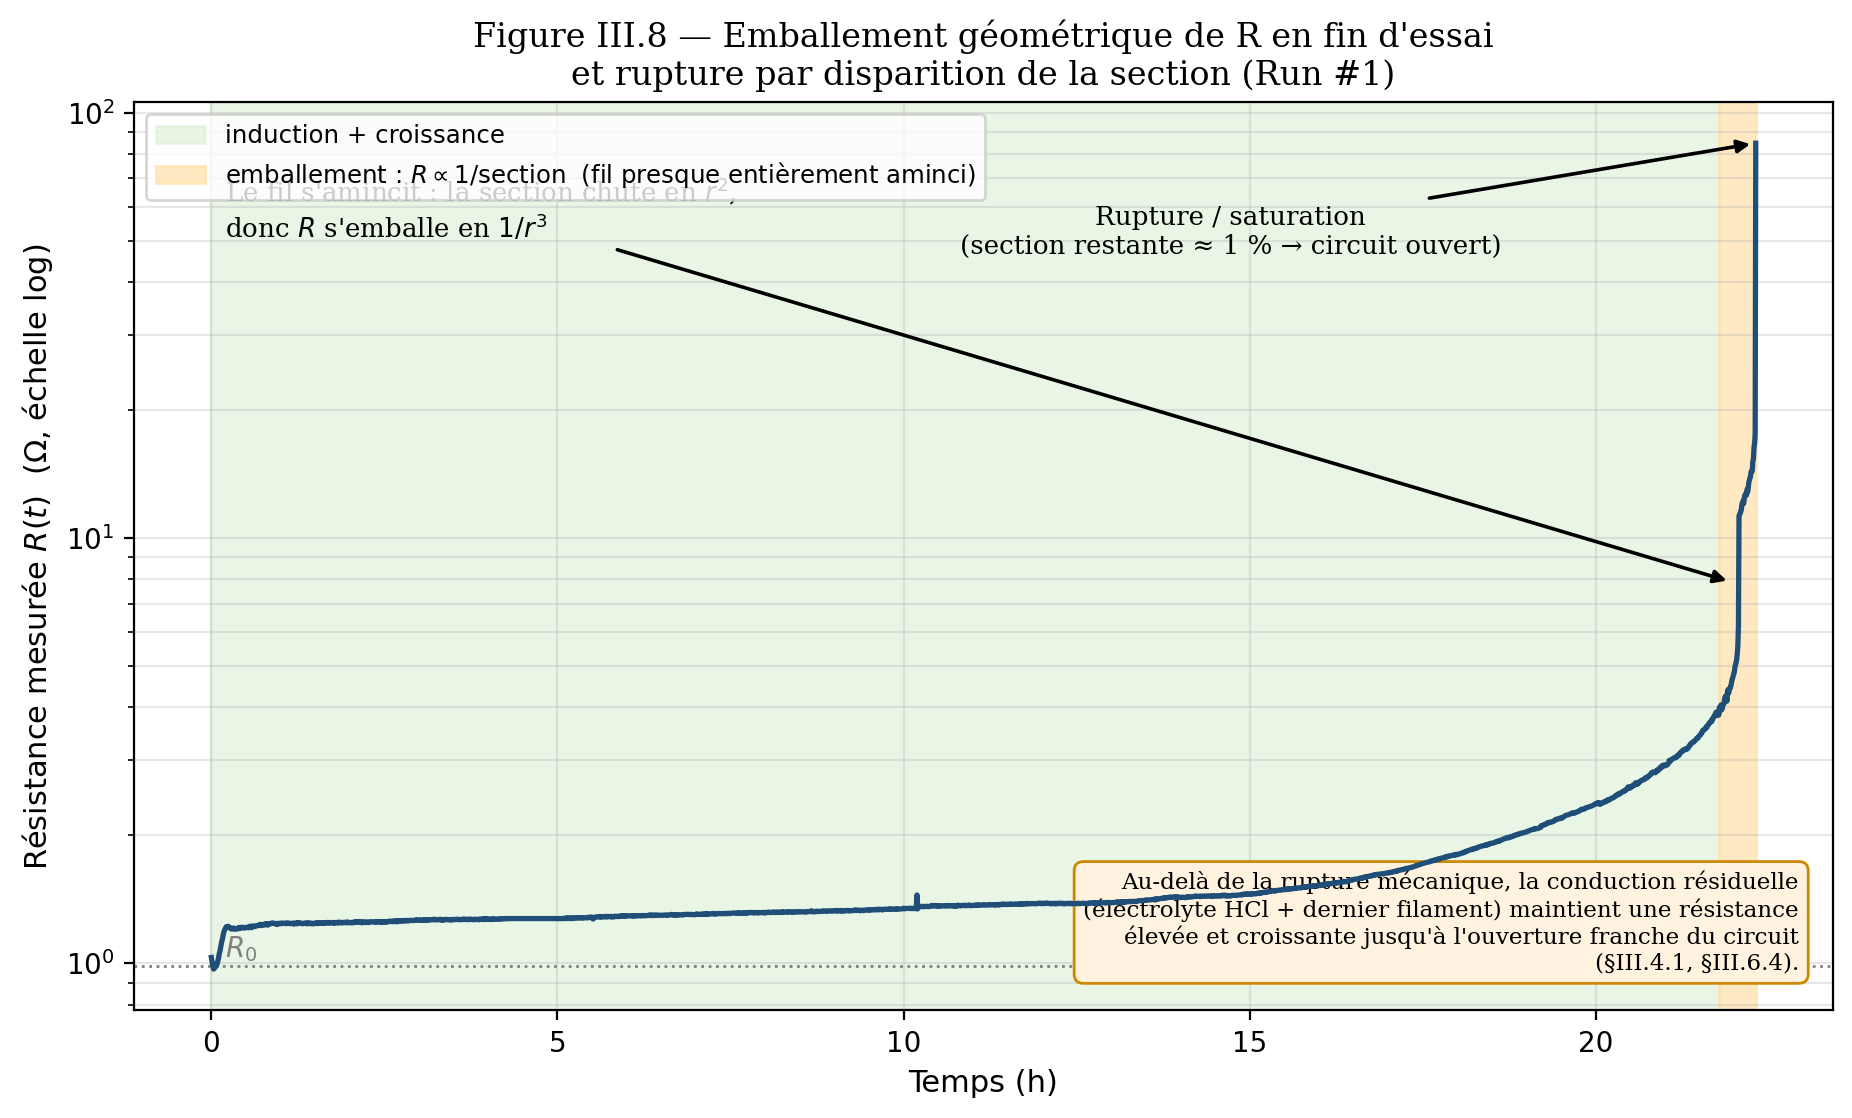
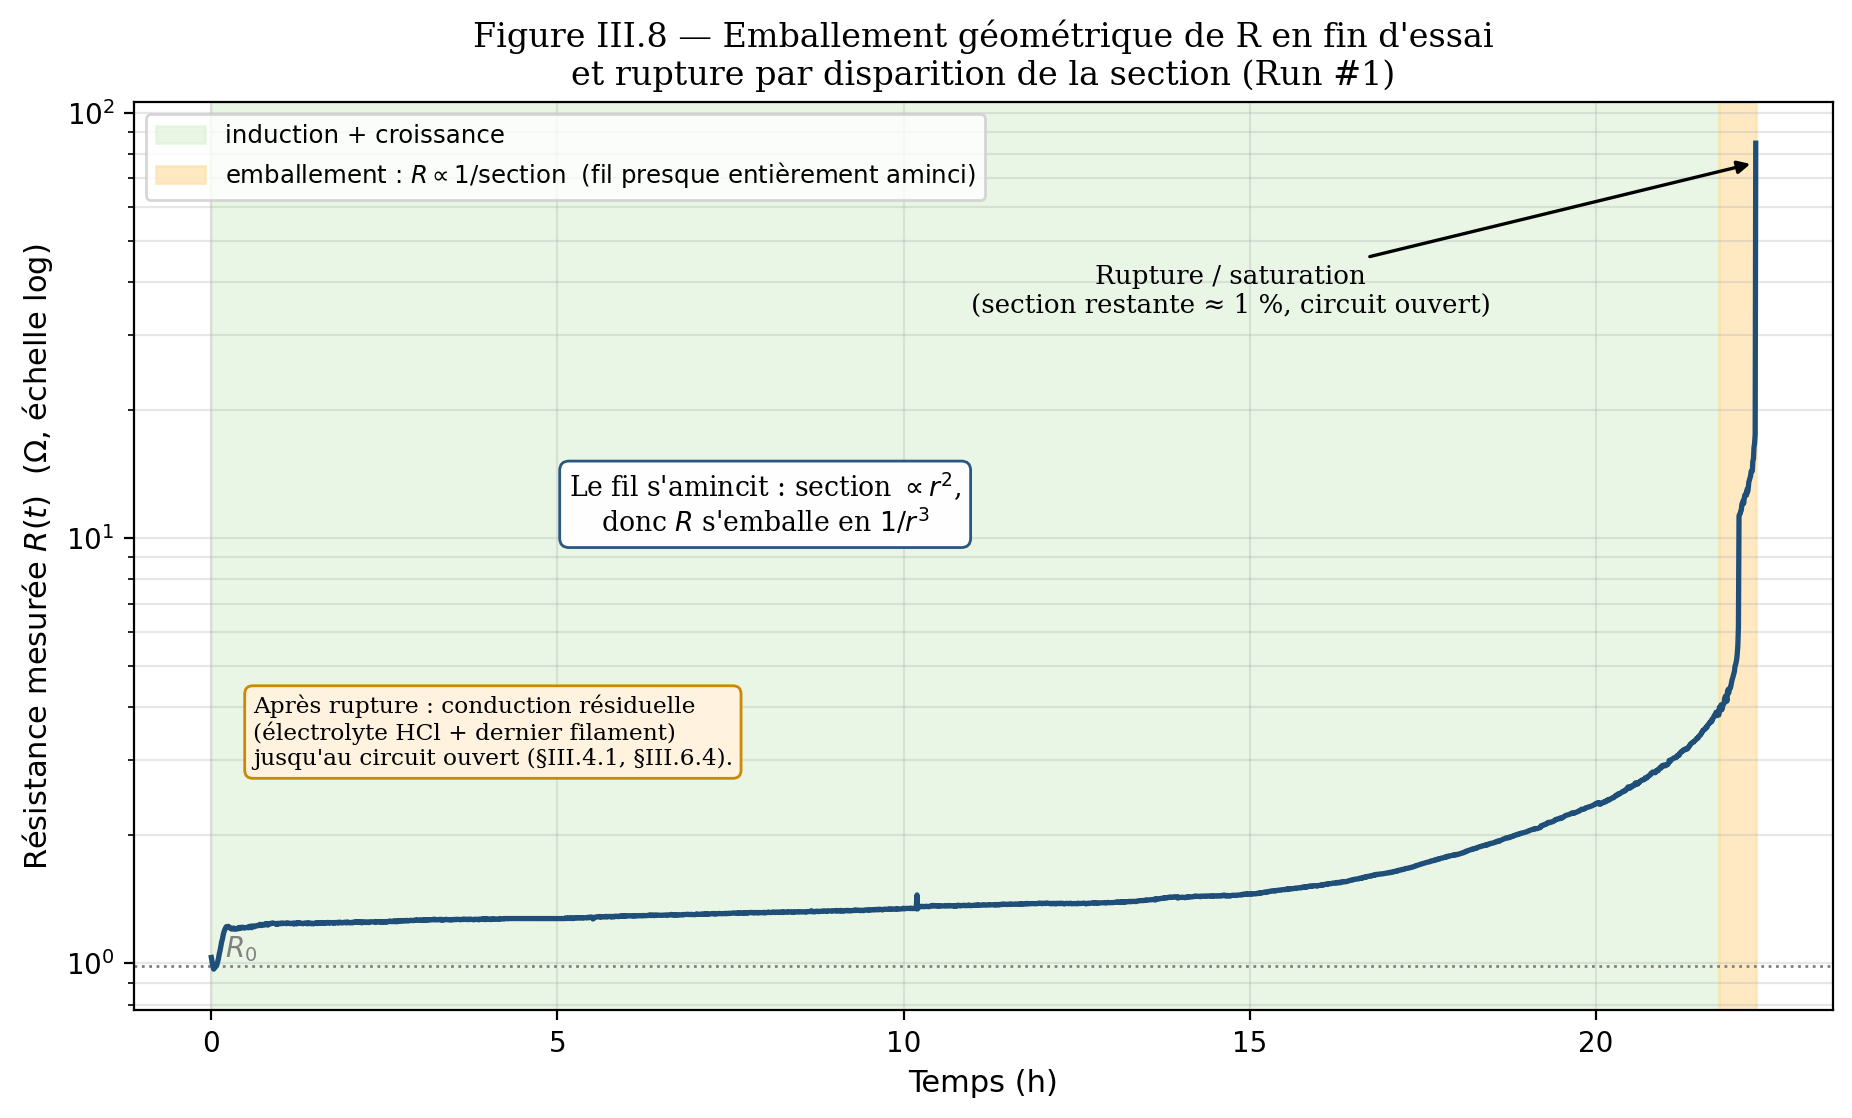
figures: supprimer fleches/textes qui se croisent (rendu pro)
- II.1 architecture : fleche ESP->Supabase bord a bord ; label REST deplace hors de la fleche
- III.5 escalier : suppression des 2 fleches qui traversaient leurs encadres ; labels en zone vide
- III.8 emballement : note mecanisme sortie de sous la legende, 1 seule courte fleche vers le pic,
  note post-rupture en zone basse vide, encadre orange retire de la courbe
- II.2 montage : connexions DOUT/SCK et 1-Wire reroutees orthogonalement hors du becher, labels off-line
- III.15 scorecard : label mediane deplace a cote de la ligne pointillee
Donnees/valeurs inchangees ; numeros de figure (titres graves) inchanges.

diff --git a/memoire/figures/generate_fig_iii4_emballement.py b/memoire/figures/generate_fig_iii4_emballement.py
@@ -55,23 +55,24 @@ ax.axvspan(t_emb, t_rupt, color="#ffe0a8", alpha=0.7,
 ax.axhline(R0, color="gray", ls=":", lw=1)
 ax.text(0.2, R0 * 1.05, r"$R_0$", color="gray", fontsize=10)
 
-ax.annotate(f"Rupture / saturation\n(section restante ≈ {sect_fin:.0f} % → circuit ouvert)",
-            xy=(t_rupt, mx), xytext=(t_rupt - 0.34 * t_rupt, mx * 0.55),
-            fontsize=9.4, family="serif", ha="center",
-            arrowprops=dict(arrowstyle="-|>", color="black", lw=1.3))
-ax.annotate("Le fil s'amincit : la section chute en $r^2$,\ndonc $R$ s'emballe en $1/r^{3}$",
-            xy=(0.65 * t_emb + 0.35 * t_rupt, 8 * R0),
-            xytext=(0.2, mx * 0.6), fontsize=9.4, family="serif", ha="left",
-            arrowprops=dict(arrowstyle="-|>", color="black", lw=1.3))
+# Mécanisme géométrique : texte seul, posé dans la zone centrale vide (aucune flèche)
+ax.text(8.0, 12.0, "Le fil s'amincit : section $\\propto r^{2}$,\ndonc $R$ s'emballe en $1/r^{3}$",
+        ha="center", va="center", fontsize=9.6, family="serif",
+        bbox=dict(boxstyle="round,pad=0.35", facecolor="white", edgecolor="#1f4e79", lw=1, alpha=0.95))
 
-# Encadré : mécanisme post-rupture (décrit, non extrapolé)
-ax.text(0.98, 0.04,
-        "Au-delà de la rupture mécanique, la conduction résiduelle\n"
-        "(électrolyte HCl + dernier filament) maintient une résistance\n"
-        "élevée et croissante jusqu'à l'ouverture franche du circuit\n"
-        "(§III.4.1, §III.6.4).",
-        transform=ax.transAxes, ha="right", va="bottom", fontsize=8.3, family="serif",
-        bbox=dict(boxstyle="round,pad=0.4", facecolor="#fff3e0", edgecolor="#cc8800", lw=1))
+# Rupture : une courte flèche vers le pic, hors de la courbe
+ax.annotate(f"Rupture / saturation\n(section restante ≈ {sect_fin:.0f} %, circuit ouvert)",
+            xy=(t_rupt, mx * 0.9), xytext=(0.66 * t_rupt, mx * 0.40),
+            fontsize=9.4, family="serif", ha="center",
+            arrowprops=dict(arrowstyle="-|>", color="black", lw=1.2))
+
+# Conduction post-rupture : note brève, dans la zone basse vide à gauche
+ax.text(0.6, 4.3,
+        "Après rupture : conduction résiduelle\n"
+        "(électrolyte HCl + dernier filament)\n"
+        "jusqu'au circuit ouvert (§III.4.1, §III.6.4).",
+        ha="left", va="top", fontsize=8.4, family="serif",
+        bbox=dict(boxstyle="round,pad=0.35", facecolor="#fff3e0", edgecolor="#cc8800", lw=1))
 
 ax.set_xlabel("Temps (h)", fontsize=11)
 ax.set_ylabel(r"Résistance mesurée $R(t)$  (Ω, échelle log)", fontsize=11)

diff --git a/memoire/figures/gen_schema_montage.py b/memoire/figures/gen_schema_montage.py
@@ -57,7 +57,7 @@ ax.add_patch(FancyBboxPatch((4.05, 3.7), 3.2, 1.9, boxstyle="round,pad=0.02",
 ax.text(5.65, 3.95, "Bécher — HCl (bain 30 °C)", ha="center", color=VERT, fontsize=8)
 # DS18B20 dans le bécher
 ax.plot(6.5, 4.4, "s", color=ROUGE, ms=9)
-ax.text(6.5, 4.15, "DS18B20", ha="center", color=ROUGE, fontsize=7.5)
+ax.text(6.78, 4.4, "DS18B20", ha="left", va="center", color=ROUGE, fontsize=7.5)
 
 # ---- HX711 (mesure A+ / A-) ----
 box(3.6, 6.4, 4.1, 1.0, "HX711  (ADC 24 bits, gain 64)", BLEU,
@@ -68,14 +68,13 @@ wire(7.0, Y, 7.0, 6.4, color=BLEU, lw=1.3)      # A- -> HX711
 # ---- ESP32 ----
 box(0.4, 1.0, 3.2, 1.3, "ESP32", GRIS,
     sub="DOUT→21 · SCK→22 · 1-Wire→19")
-# liaisons logiques HX711 <-> ESP32
-ax.annotate("", xy=(2.0, 2.3), xytext=(4.6, 6.4),
-            arrowprops=dict(arrowstyle="-", color=GRIS, ls="--", lw=1.2))
-ax.text(3.0, 4.4, "DOUT / SCK", color=GRIS, fontsize=7.5, rotation=58)
-# DS18B20 -> ESP32 (1-Wire)
-ax.annotate("", xy=(3.6, 1.7), xytext=(6.5, 4.4),
-            arrowprops=dict(arrowstyle="-", color=ROUGE, ls=":", lw=1.1))
-ax.text(4.7, 2.7, "1-Wire", color=ROUGE, fontsize=7.5, rotation=42)
+# liaison logique HX711 <-> ESP32 (DOUT/SCK) : descente verticale à gauche du bécher (x < 4,05)
+ax.plot([3.7, 3.7], [6.4, 2.3], color=GRIS, ls="--", lw=1.1, zorder=1)
+ax.text(3.55, 3.5, "DOUT / SCK", color=GRIS, fontsize=7.5, rotation=90, ha="right", va="center")
+# liaison DS18B20 -> ESP32 (1-Wire) : sortie verticale du bécher puis retour orthogonal
+ax.plot([6.5, 6.5], [4.4, 1.65], color=ROUGE, ls=":", lw=1.1, zorder=1)
+ax.plot([6.5, 3.6], [1.65, 1.65], color=ROUGE, ls=":", lw=1.1, zorder=1)
+ax.text(6.65, 2.05, "1-Wire", color=ROUGE, fontsize=7.5, ha="left", va="center")
 # alim ESP32 -> 3V3 et GND du circuit
 wire(2.0, 2.3, 0.5, 2.3); wire(0.5, 2.3, 0.5, Y, color=ROUGE, lw=1.3)
 wire(3.6, 1.3, 10.5, 1.3); wire(10.5, 1.3, 10.5, Y, color="black", lw=1.3)

diff --git a/memoire/figures/generate_fig_loro_evolution.py b/memoire/figures/generate_fig_loro_evolution.py
@@ -12,7 +12,6 @@ seule graine). Aucun recalcul ici : la figure visualise des résultats déjà ca
 """
 import os
 import matplotlib.pyplot as plt
-from matplotlib.patches import FancyArrowPatch
 
 OUT = os.path.join(os.path.dirname(os.path.abspath(__file__)), "fig_iii3_loro_evolution.png")
 
@@ -55,18 +54,12 @@ for xi, yi, t, dy, va in zip(x, r2, val_txt, val_dy, val_va):
     ax.annotate(t, xy=(xi, yi), xytext=(xi, yi + dy), ha="center", va=va,
                 fontsize=11, fontweight="bold", color="#1f4e79", family="serif")
 
-# Flèches de transition + commentaire mécaniste
-arr1 = FancyArrowPatch((0.12, -1.45), (0.88, 0.02), connectionstyle="arc3,rad=0.28",
-                       arrowstyle="-|>", mutation_scale=16, color="#2e7d32", lw=1.6, zorder=6)
-ax.add_patch(arr1)
-ax.text(0.5, -0.55, "Couverture & répétition\ndes conditions 30 °C", color="#2e7d32",
+# Commentaires de transition (placés dans les zones vides, sans flèche qui croise le texte)
+ax.text(0.5, -1.12, "Couverture et répétition\ndes conditions 30 °C", color="#2e7d32",
         fontsize=9.2, ha="center", va="center", family="serif",
         bbox=dict(boxstyle="round,pad=0.3", fc="white", ec="#2e7d32", lw=1, alpha=0.95))
 
-arr2 = FancyArrowPatch((1.12, 0.27), (1.9, 0.225), connectionstyle="arc3,rad=-0.25",
-                       arrowstyle="-|>", mutation_scale=16, color="#b8860b", lw=1.6, zorder=6)
-ax.add_patch(arr2)
-ax.text(1.55, 0.40, "Morphologie non appariée\n→ léger recul (métrique bruitée)", color="#9a6a00",
+ax.text(1.5, 0.52, "Morphologie non appariée :\nléger recul, métrique bruitée", color="#9a6a00",
         fontsize=9.2, ha="center", va="center", family="serif",
         bbox=dict(boxstyle="round,pad=0.3", fc="white", ec="#b8860b", lw=1, alpha=0.95))
 

diff --git a/memoire/figures/generate_fig_ii1.py b/memoire/figures/generate_fig_ii1.py
@@ -36,10 +36,10 @@ box(2.4, 5.3, 5.0, 3.5,
 box(3.0, 1.8, 4.0, 1.4, "Technicien (web / mobile)", "#EADBFF")
 
 # --- Flèches ---
-arrow(2.0, 10.6, 6.3, 11.2, 'HTTPS POST')                                   # ESP32 -> Supabase
-arrow(7.4, 10.3, 6.0, 8.8, 'REST Supabase\n(lecture mesures ·\nécriture OT)',
-      style='<|-|>', dx=0.25)                                               # Supabase <-> Streamlit
-arrow(4.9, 5.3, 4.9, 3.2, 'ordre de travail /\nnotification')               # Streamlit -> Technicien
+arrow(3.7, 11.4, 5.9, 11.3, 'HTTPS POST', dy=0.22)                          # ESP32 -> Supabase (bord à bord)
+arrow(7.2, 10.3, 6.4, 8.8, 'REST Supabase\n(lecture mesures ·\nécriture OT)',
+      style='<|-|>', dx=0.95)                                               # Supabase <-> Streamlit (label à droite)
+arrow(4.9, 5.3, 4.9, 3.2, 'ordre de travail /\nnotification', dx=0.2)       # Streamlit -> Technicien
 
 ax.set_title("Figure II.1 — Architecture de la boucle intégrée\n"
              "Sonde ER → Supabase → Streamlit (module GMAO maison)",

diff --git a/memoire/figures/generate_fig_band_scorecard.py b/memoire/figures/generate_fig_band_scorecard.py
@@ -23,7 +23,7 @@ fig, ax = plt.subplots(figsize=(9.6, 3.9))
 ax.axvspan(P10, P90, color="#cfe3f5", alpha=0.85, zorder=1,
            label="Bande prédictive du jumeau (P10–P90)")
 ax.axvline(P50, color="#1f4e79", ls="--", lw=1.4, zorder=3)
-ax.text(P50, 1.38, "médiane\n16 h", color="#1f4e79", fontsize=8.6, ha="center",
+ax.text(P50 + 0.18, 1.45, "médiane 16 h", color="#1f4e79", fontsize=8.6, ha="left",
         va="bottom", family="serif")
 for xb, lab in [(P10, "P10 = 13 h"), (P90, "P90 = 20,5 h")]:
     ax.text(xb, 0.46, lab, color="#2a5a86", fontsize=8.2, ha="center", va="center",
